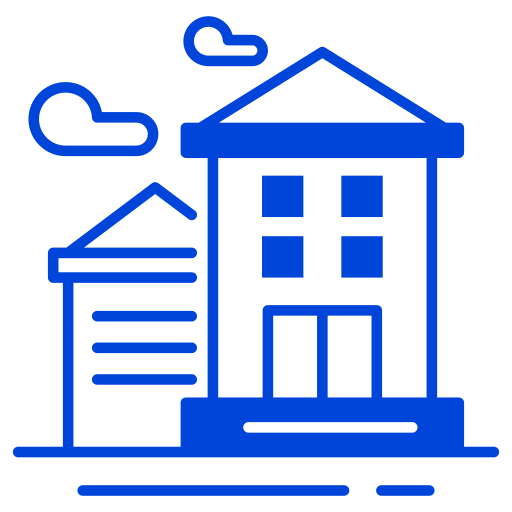
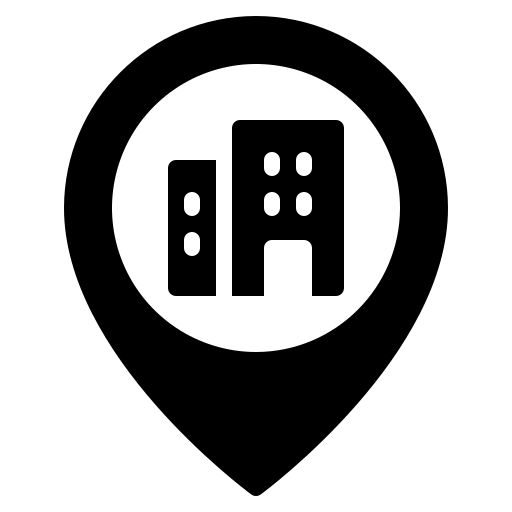
update data

diff --git a/lib/pages/auth/password_login/password_login_page.dart b/lib/pages/auth/password_login/password_login_page.dart
@@ -41,6 +41,7 @@ class _PasswordLoginPageState extends ConsumerState<PasswordLoginPage>
   String? _inlineError;
   bool _submitting = false;
   bool _handlingPasswordInput = false;
+  bool _wasComplete = false;
 
   final _controllers = List.generate(_length, (_) => TextEditingController());
   final _focusNodes = List.generate(_length, (_) => FocusNode());
@@ -62,15 +63,26 @@ class _PasswordLoginPageState extends ConsumerState<PasswordLoginPage>
       TweenSequenceItem(tween: Tween(begin: 5, end: -3), weight: 2),
       TweenSequenceItem(tween: Tween(begin: -3, end: 0), weight: 1),
     ]).animate(CurvedAnimation(parent: _shake, curve: Curves.easeOut));
+    for (final controller in _controllers) {
+      controller.addListener(_syncSubmitEnabled);
+    }
     WidgetsBinding.instance.addPostFrameCallback((_) {
       if (mounted) _focusNodes.first.requestFocus();
     });
+  }
+
+  void _syncSubmitEnabled() {
+    final complete = _isComplete;
+    if (complete == _wasComplete) return;
+    _wasComplete = complete;
+    if (mounted) setState(() {});
   }
 
   @override
   void dispose() {
     _shake.dispose();
     for (final c in _controllers) {
+      c.removeListener(_syncSubmitEnabled);
       c.dispose();
     }
     for (final f in _focusNodes) {

diff --git a/lib/pages/home/show_room/show_room_page.dart b/lib/pages/home/show_room/show_room_page.dart
@@ -237,12 +237,18 @@ class _TitlePngChip extends StatelessWidget {
         borderRadius: BorderRadius.circular(6),
       ),
       alignment: Alignment.center,
-      child: Image.asset(
-        asset,
-        width: 22,
-        height: 22,
-        fit: BoxFit.contain,
-        filterQuality: FilterQuality.high,
+      child: ColorFiltered(
+        colorFilter: const ColorFilter.mode(
+          AppColors.primary,
+          BlendMode.srcIn,
+        ),
+        child: Image.asset(
+          asset,
+          width: 22,
+          height: 22,
+          fit: BoxFit.contain,
+          filterQuality: FilterQuality.high,
+        ),
       ),
     );
   }
